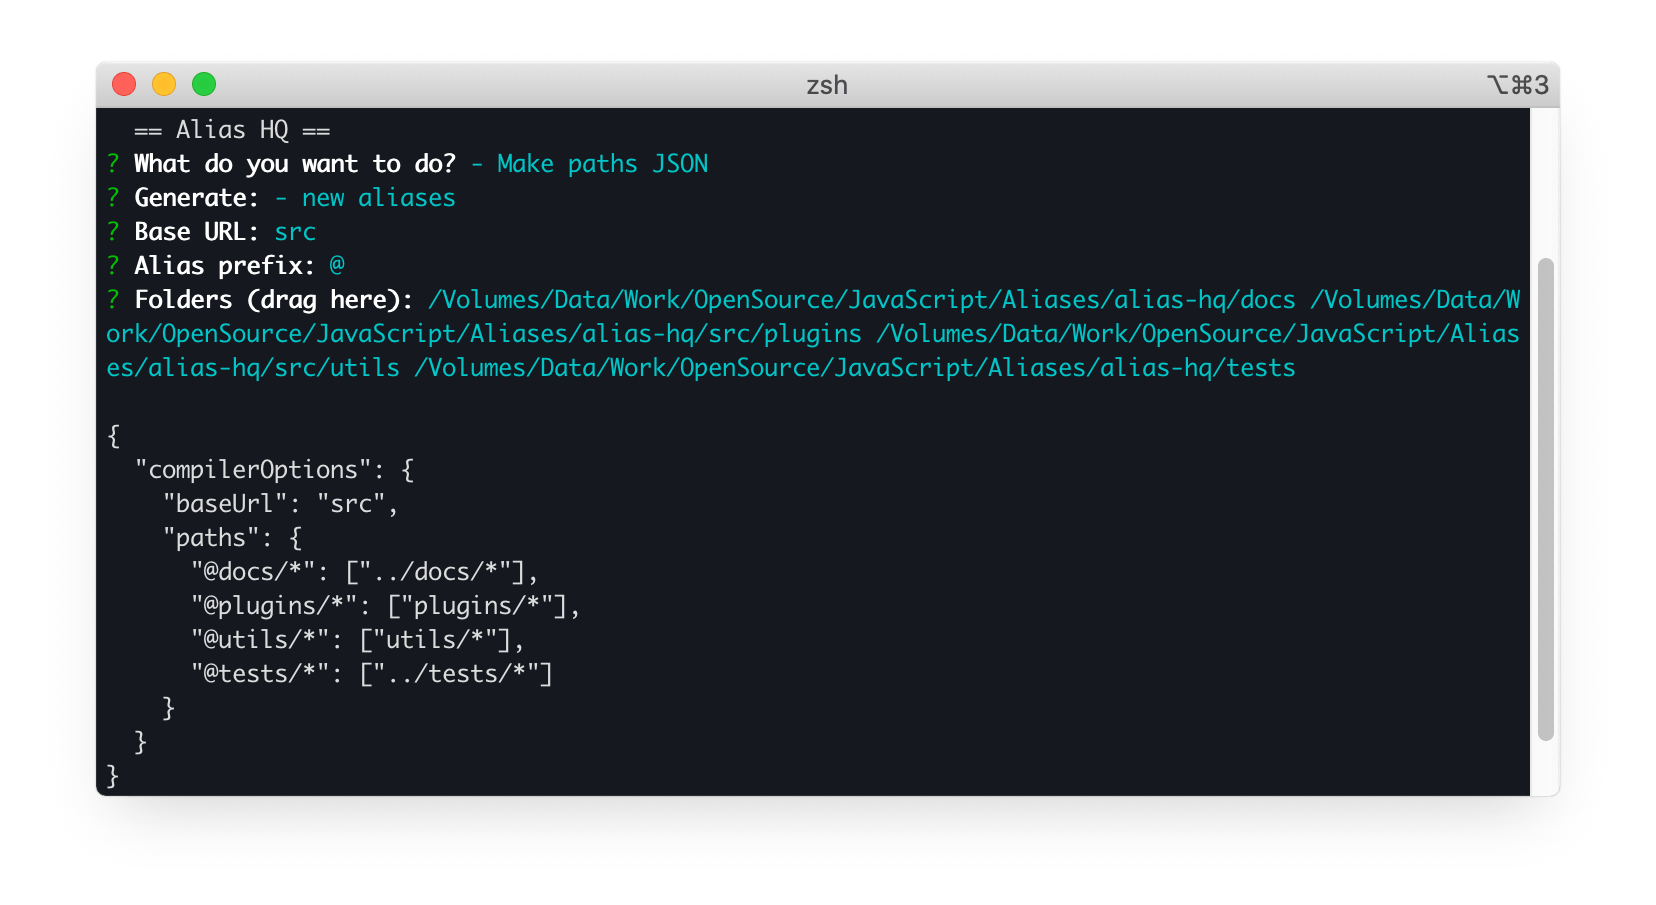
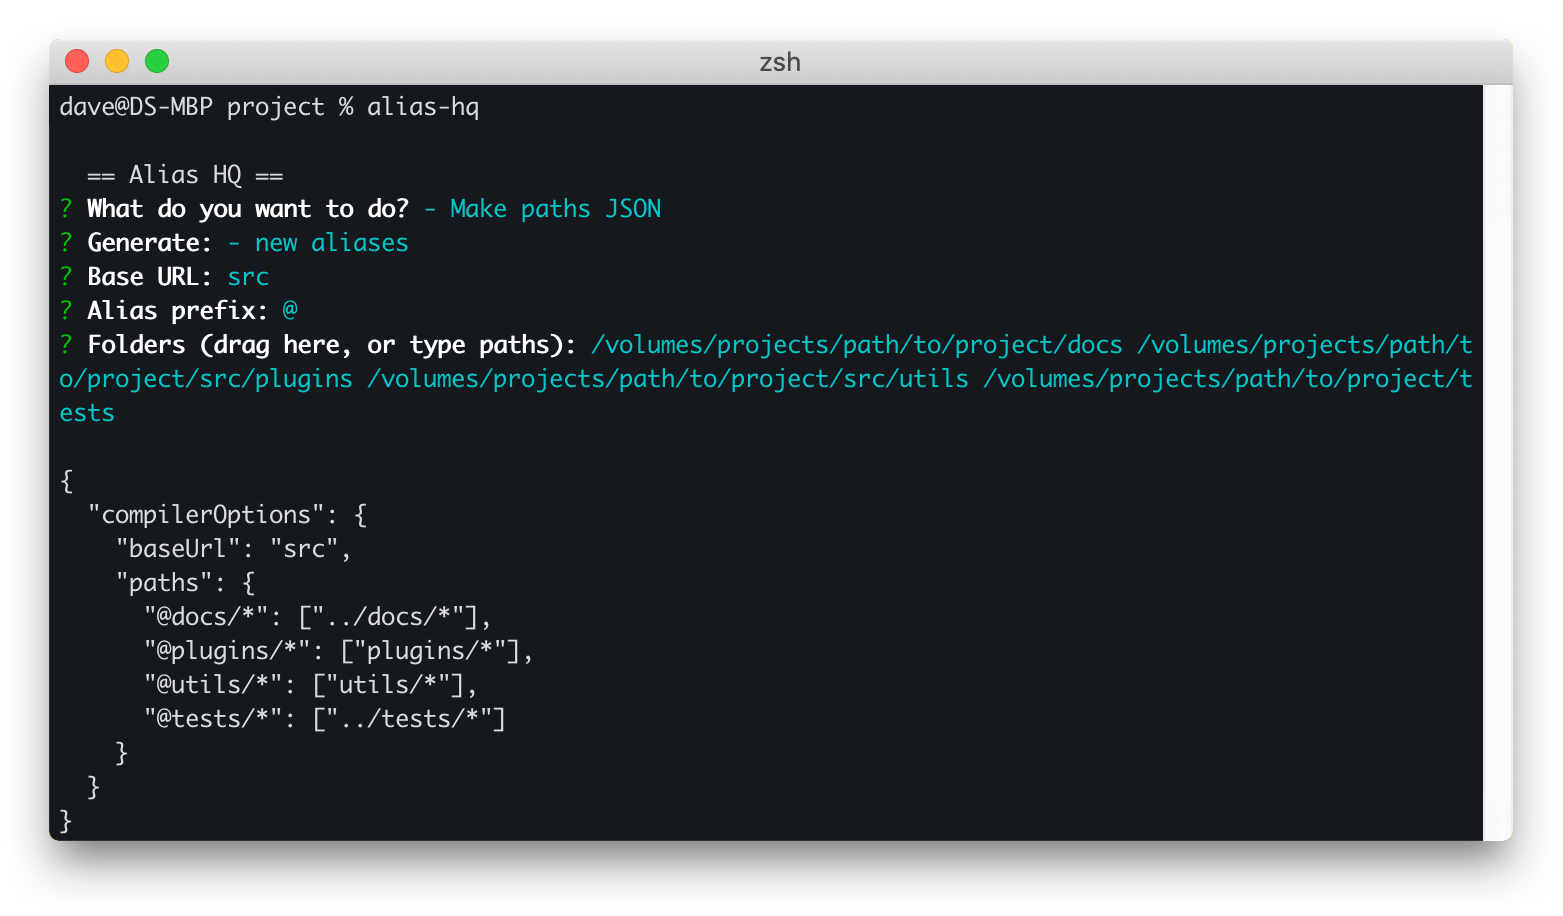
Update version and docs

Changed region(s): [[0.0, 0.0309, 0.9827, 0.9591], [0.3071, 0.1547, 0.4299, 0.1856]]

diff --git a/README.md b/README.md
@@ -83,13 +83,9 @@ yarn add -D alias-hq
 
 ### Configuration
 
-#### Background
-
-Alias HQ piggybacks the TypeScript / VS Code configuration with either a `tsconfig.json` or `jsconfig.js` file.
-
 #### Syntax
 
-Locate (or create) the appropriate file in your project's root folder, and configure as per the example below:
+Locate (or create) your `tsconfig.json` or `jsconfig.js`  in your project's root folder, and configure using the example below as a guide:
 
 ```json
 {
@@ -121,17 +117,19 @@ Note that:
 
 ### Auto-generation
 
-New in 3.1, you can automatically generate the config using the [Alias CLI](#alias-cli):
+New in 3.1, you can automatically generate the config using the [Alias CLI](#cli):
 
 ![alias cli](./docs/cli.png)
 
-From your project root:
+In the terminal:
 
-- Run `node ./node_modules/alias-hq/cli` in the terminal
+- From your project root, type and run `alias-hq`
 - Choose "Make paths JSON"
 - Choose the prompts that suit you
-- Drag in folders from Finder / Explorer
+- Drag in folders from Finder / Explorer (or manually type relative paths, separating with spaces)
 - Copy the resulting JSON to the config file
+
+See the [CLI](#cli) section for more info / troubleshooting.
 
 ## Usage
 
@@ -162,7 +160,7 @@ You can convert to any of the [supported](https://github.com/davestewart/alias-h
 - Rollup
 - Jest
 
-...or supply a custom transform function.
+...or supply a [custom](#using-a-custom-function) transform function.
 
 ## API
 
@@ -212,11 +210,9 @@ const config = hq.get('custom')
 
 *If you want to submit a custom format as a plugin to the repository, post an issue or PR.*
 
-## Debugging
+### Debugging
 
 There might be times when you need to check what is happening under the hood.
-
-### In code
 
 Check the loaded configuration:
 
@@ -267,17 +263,33 @@ hq.json('jest')
 }
 ```
 
-### Alias CLI
+## CLI
 
-The above functionality is also available as an **interactive** CLI.
+The CLI allows you to check configuration, plus a few tools.
 
-Run the following code in the project root...:
+### Running
+
+In the terminal, from your project root, type:
+
+```bash
+alias-hq
+```
+
+If this doesn't work, ensure that local `node_modules` executables are in your `~/.bash_profile` or equivalent: 
+
+```bash
+export PATH=./node_modules/.bin:$PATH
+```
+
+Or just call the CLI directly:
 
 ```bash
 node ./node_modules/alias-hq/cli
 ```
 
-...and choose the option you want:
+### Options
+
+You can then choose from the available options:
 
 ```
   == Alias HQ ==
@@ -287,6 +299,8 @@ node ./node_modules/alias-hq/cli
   - Dump plugin output (JSON)
   - Make paths JSON
 ```
+
+For example, this is your current config, as viewed by Alias HQ:
 
 ```js
 {
@@ -445,7 +459,7 @@ This short React guide is *not meant to be exhaustive*; for issues, use your com
 
 For libraries or setups that require JSON, you can use the Alias CLI:
 
-- Follow the [instructions](#alias-cli) above
+- Follow the [instructions](#cli) above
 - Choose "Dump plugin output (JSON)"
 - Choose the required format 
 - Copy / paste the JSON where you need it
